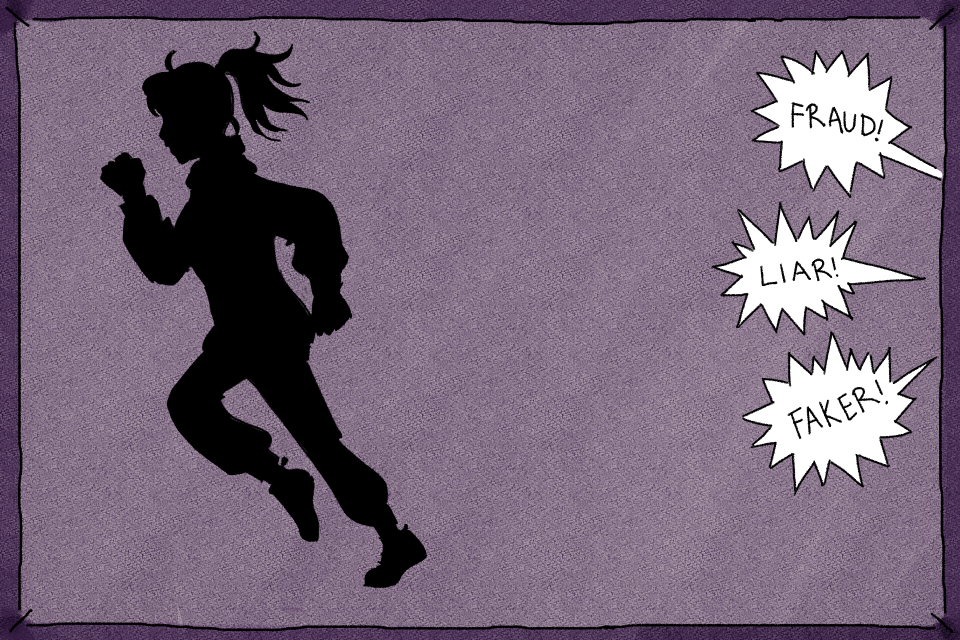
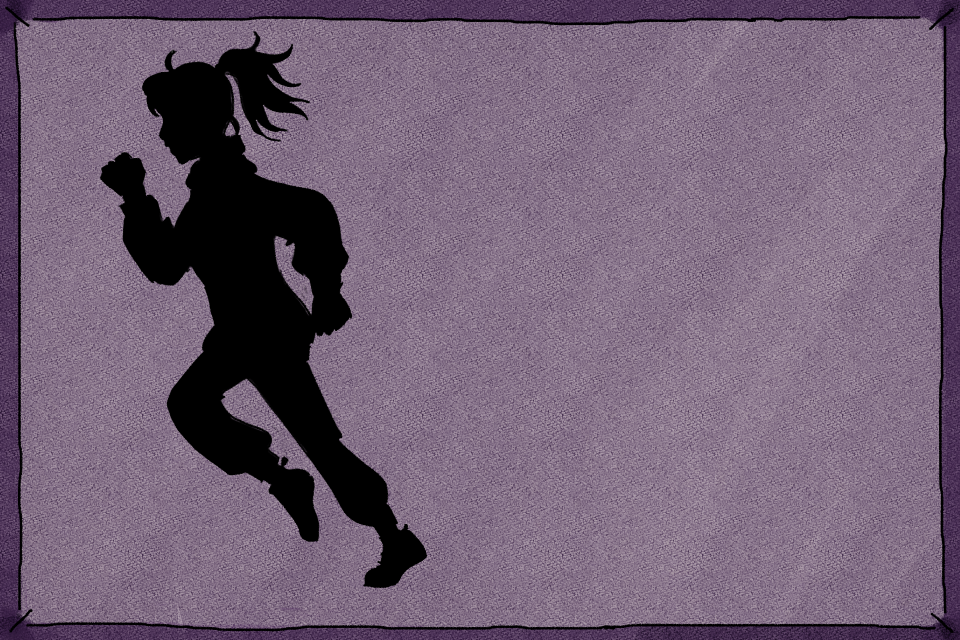
fit in game endings

Changed region(s): [[0.7812, 0.5312, 0.9688, 0.7812], [0.7812, 0.0625, 1.0, 0.3125], [0.75, 0.3125, 0.9688, 0.5312]]

diff --git a/main.css b/main.css
@@ -485,9 +485,9 @@ input[type=range]::-ms-thumb {
 /******* START EPILOGUE SCREEN STYLING *******/
 
 #epilogue-result {
-  left: 363px;
+  left: 481px;
   position: absolute;
-  width: 518px;
+  width: 452px;
 }
 
 /******* END EPILOGUE SCREEN STYLING *******/
